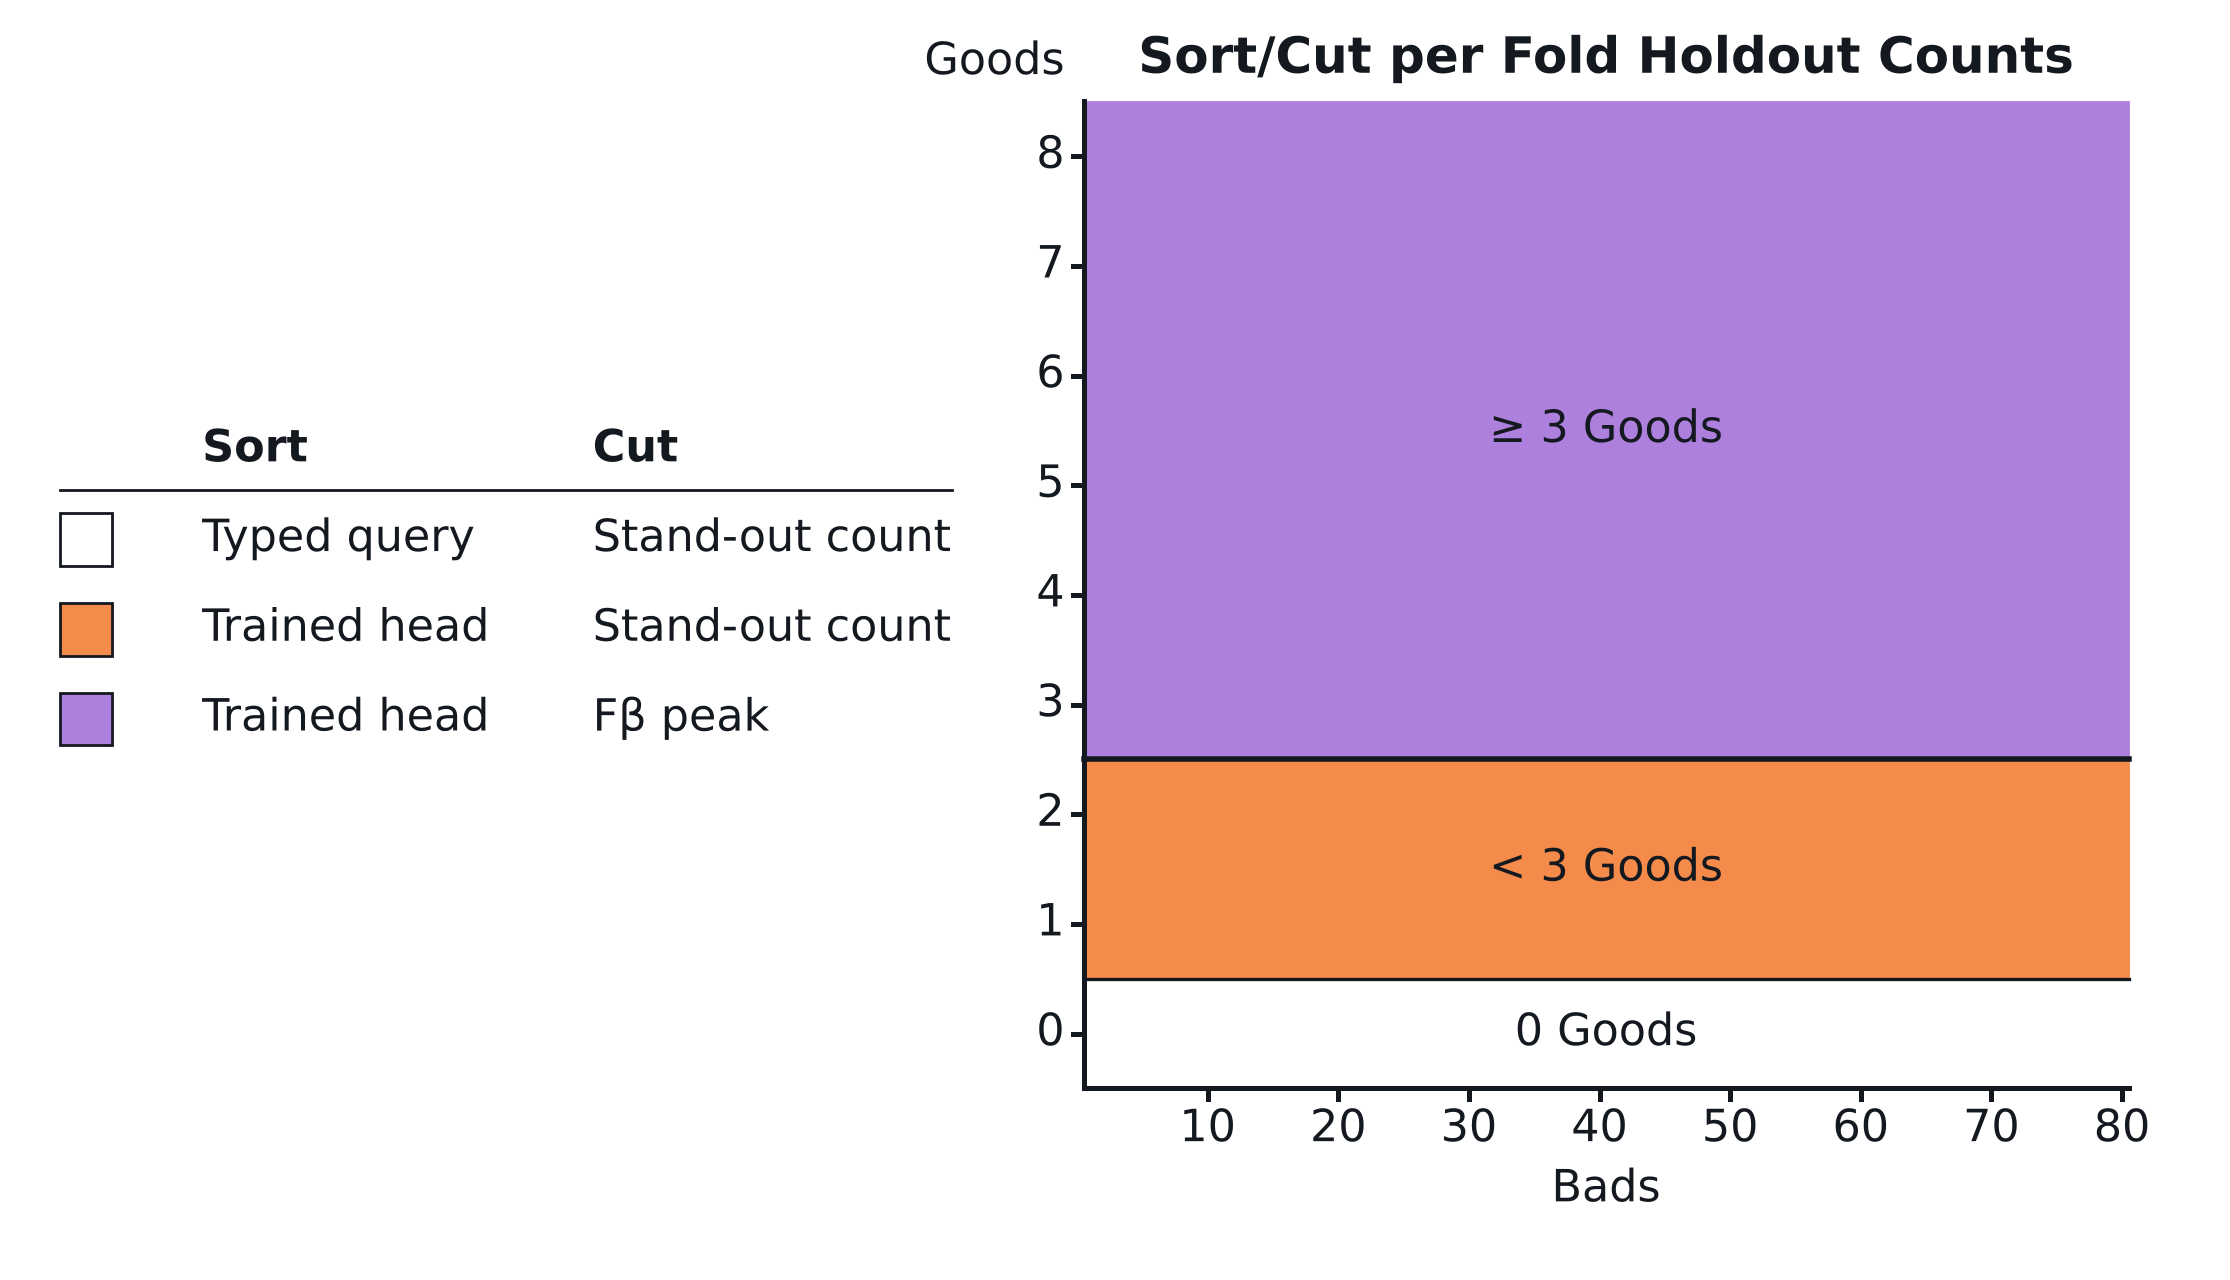
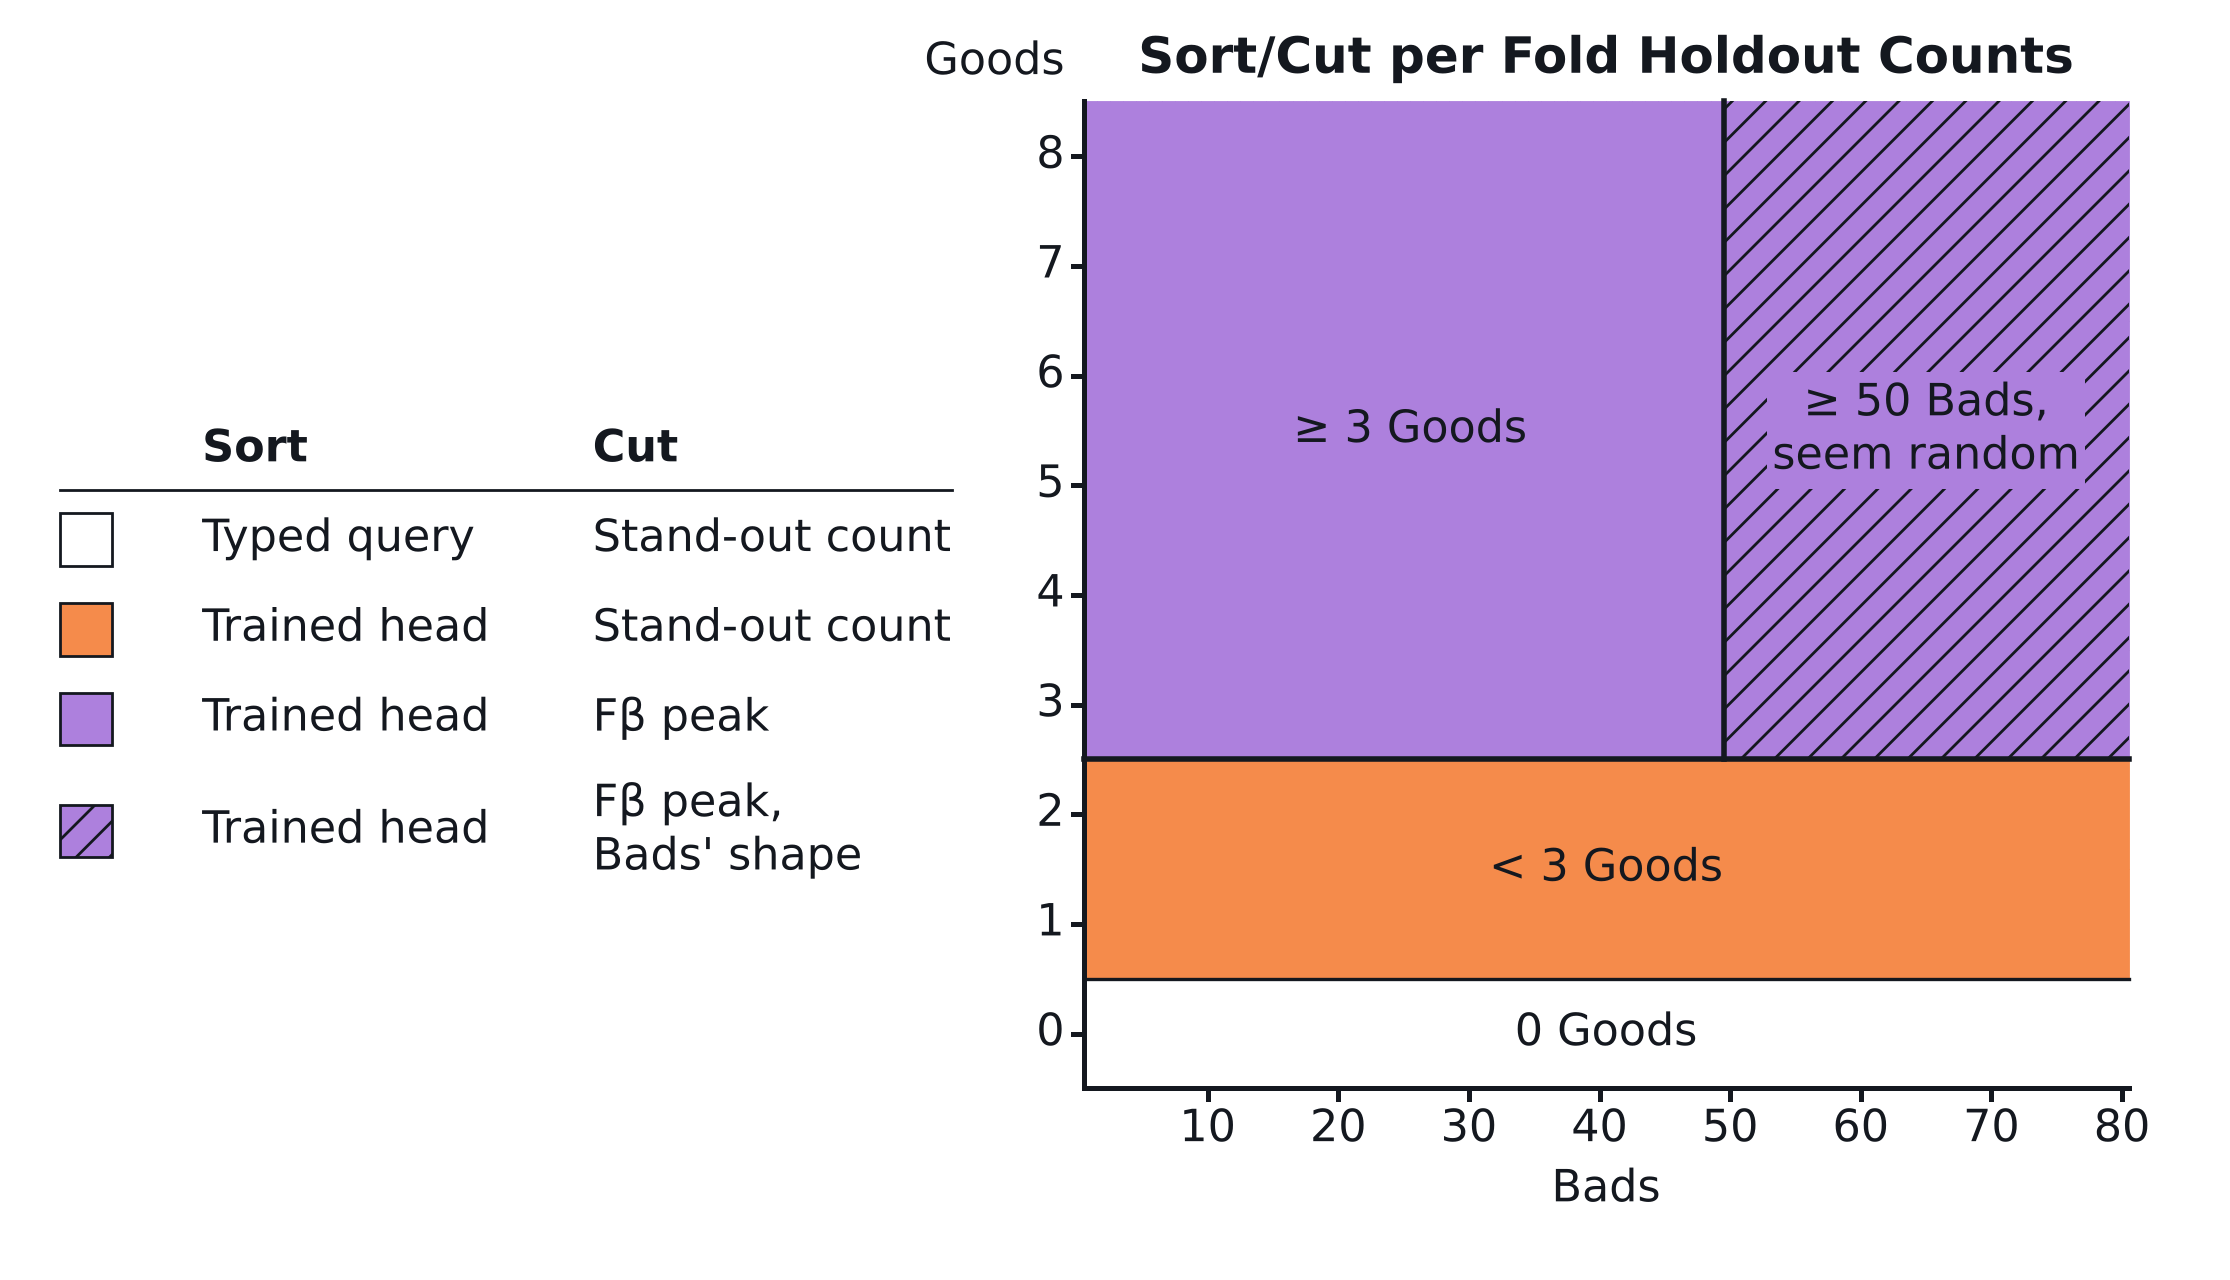
Slides: Inside Job's page c hatches the cut on the Bads' own shape
Fifty Bads per fold (RANDOM_BADS_MIN between the two) that seem a random
sample of the corpus get the Fbeta peak with the non-matches shaped by
the Bads' own scores (#4490): a return of its own, so it is a row of the
key (Trained head / Fbeta peak, Bads' shape, hatched purple), and its
region is named for both its count and its test, '>= 50 Bads, seem
random', as Lay of the Land's hatch names 'with a query'. Note c says a
session never gets there and an imported, fully labelled set can, at
some 160-170 Bads in hand, past Lay of the Land's edge.

'>= 3 Goods' now stands left of the hatch on every page, so it need not
move when page c arrives.

Claude-Session: https://claude.ai/code/session_015JYDYJSoKrimV2DtawW9RR

diff --git a/slides/figs/src/make-calib-figs.py b/slides/figs/src/make-calib-figs.py
@@ -6472,7 +6472,10 @@ IN_TABLE = (
     (1, "none", "Typed query", "Stand-out count"),
     (1, "count", "Trained head", "Stand-out count"),
     (2, "labels", "Trained head", "Fβ peak"),
+    (3, "bads", "Trained head", "Fβ peak,\nBads' shape"),
 )
+#: Table keys whose swatch is another key's fill, hatched.
+MAP_HATCHED_KEYS = {"bads": "labels"}
 
 
 def _map_table(ax: plt.Axes, rows: tuple, stage: int, hatched: tuple[str, int] | None = None) -> None:
@@ -6481,7 +6484,8 @@ def _map_table(ax: plt.Axes, rows: tuple, stage: int, hatched: tuple[str, int] |
     *hatched* is ``(fill key, stage)``: from that stage a hatched swatch joins
     that row's, for a hatch on the map that shares the row's sort and cut.
     White swatches are outlined so they show; the ``"split"`` row's swatch is
-    Lay of the Land's band, orange to purple. A two-line row takes half a
+    Lay of the Land's band, orange to purple; a `MAP_HATCHED_KEYS` row's is
+    another row's fill, hatched, for a hatch on the map with a return of its own. A two-line row takes half a
     row more, and every row keeps its place on every page.
     """
     xs = MAP_TABLE_X
@@ -6499,9 +6503,10 @@ def _map_table(ax: plt.Axes, rows: tuple, stage: int, hatched: tuple[str, int] |
             for i, x in enumerate(np.linspace(0.0, MAP_TABLE_SWATCH, 25)[:-1]):
                 ax.add_patch(Rectangle((xs["swatch"] + x, y - half), MAP_TABLE_SWATCH / 24, MAP_TABLE_SWATCH,
                                        facecolor=_land_mix(i / 23), edgecolor="none", zorder=3))  # fmt: skip
-        ax.add_patch(Rectangle((xs["swatch"], y - half), MAP_TABLE_SWATCH, MAP_TABLE_SWATCH,
-                               facecolor="none" if key == "split" else LAND_FILL[key], edgecolor=INK,
-                               linewidth=1.0, zorder=3))  # fmt: skip
+        fill = "none" if key == "split" else LAND_FILL[MAP_HATCHED_KEYS.get(key, key)]
+        ax.add_patch(Rectangle((xs["swatch"], y - half), MAP_TABLE_SWATCH, MAP_TABLE_SWATCH, facecolor=fill,
+                               edgecolor=INK, hatch="//" if key in MAP_HATCHED_KEYS else None, linewidth=1.0,
+                               zorder=3))  # fmt: skip
         if hatched is not None and hatched[0] == key and stage >= hatched[1]:
             ax.add_patch(Rectangle((xs["swatch2"], y - half), MAP_TABLE_SWATCH, MAP_TABLE_SWATCH,
                                    facecolor=LAND_FILL[key], edgecolor=INK, hatch="//", linewidth=1.0,
@@ -6605,11 +6610,12 @@ def _land_query(ax: plt.Axes) -> None:
 # ── Inside Job: the trained head's line, read off what a fold holds out ─────
 
 #: How many build stages the inside view reveals in: a thin class model,
-#: counting what stands out; the labels line, from three Goods per fold.
-#: #4490's random-sample Bads are not drawn: whether a labelset's Bads pass
-#: that test is read off their scores, not their count, so it is no edge on a
-#: map of counts, and a session's Bads never pass it.
-IN_STAGES = 2
+#: counting what stands out; the labels line, from three Goods per fold; its
+#: cut on the Bads' own shape, from fifty Bads per fold that seem random
+#: (#4490). That last test reads the Bads' scores, not their count, so its
+#: region is named for both, as Lay of the Land's hatch is "with a query"; a
+#: session's Bads never pass it (owner, 2026-10-13: a return of its own).
+IN_STAGES = 3
 #: What one fold holds out, the map's two axes: Bads 1..IN_B, Goods 0..IN_G.
 #: A fold always holds out at least one of each (`_grouped_folds` trains on at
 #: most all but one of a class), so the Bads start at 1; the Goods row at 0 is
@@ -6624,7 +6630,9 @@ def _in_grid() -> np.ndarray:
     For each count a fold holds out, every fold holding out the same, as
     `_grouped_folds` makes them: build the folds' held-out scores (Goods high,
     Bads low, spread), fit `class_score_model` to them, and ask
-    `head_count_serves`. The scores only have to separate; the counts decide.
+    `head_count_serves` and whether the model kept the Bads' scores
+    (`RANDOM_BADS_MIN`), which the cut reads only if they seem random. The
+    scores only have to separate; the counts decide.
     """
     from vtscore.config.runtime import DEFAULT_CALIBRATE_COUNT  # noqa: PLC0415
     from vtscore.training.thresholds.labels_line import class_score_model, head_count_serves  # noqa: PLC0415
@@ -6638,7 +6646,10 @@ def _in_grid() -> np.ndarray:
             fold = (list(goods) + list(bads), [1.0] * g + [0.0] * b)
             model = class_score_model([fold] * DEFAULT_CALIBRATE_COUNT)
             assert model is not None
-            kind[g, b] = "count" if head_count_serves(model) else "labels"
+            if head_count_serves(model):
+                kind[g, b] = "count"
+            else:
+                kind[g, b] = "bads" if model.neg_logits is not None else "labels"
     return kind
 
 
@@ -6650,7 +6661,9 @@ def inside_job_fig() -> None:
     line is a decision tree on two counts, with nothing left to chance. It
     comes before Lay of the Land, which is the band this rule makes once the
     rounding is unknown. One or two Goods per fold, the head counts what stands out; three
-    (six between the two folds, `HEAD_COUNT_GOODS`), the labels line.
+    (six between the two folds, `HEAD_COUNT_GOODS`), the labels line; fifty
+    Bads per fold (`RANDOM_BADS_MIN` between them) that seem a random sample
+    of the corpus, the labels line's cut on the Bads' own shape.
     """
     final = _in_stage(IN_STAGES)
     box = tight_box(final)
@@ -6666,12 +6679,12 @@ def _in_cell(b: float, g: float) -> tuple[float, float, float, float]:
     return x0 + (b - 1) * w, y0 + g * h, w, h
 
 
-def _in_edge() -> int:
-    """The Goods a fold must hold out for the labels line: `HEAD_COUNT_GOODS` between the folds."""
+def _in_edges() -> tuple[int, int]:
+    """``(Goods, Bads)`` a fold must hold out for the labels line, and for its cut on the Bads' own shape."""
     from vtscore.config.runtime import DEFAULT_CALIBRATE_COUNT  # noqa: PLC0415
-    from vtscore.training.thresholds.labels_line import HEAD_COUNT_GOODS  # noqa: PLC0415
+    from vtscore.training.thresholds.labels_line import HEAD_COUNT_GOODS, RANDOM_BADS_MIN  # noqa: PLC0415
 
-    return HEAD_COUNT_GOODS // DEFAULT_CALIBRATE_COUNT
+    return HEAD_COUNT_GOODS // DEFAULT_CALIBRATE_COUNT, RANDOM_BADS_MIN // DEFAULT_CALIBRATE_COUNT
 
 
 def _in_stage(stage: int) -> plt.Figure:
@@ -6681,9 +6694,9 @@ def _in_stage(stage: int) -> plt.Figure:
     ax.set_xlim(0, LL_CANVAS[0])
     ax.set_ylim(0, LL_CANVAS[1])
     ax.set_axis_off()
-    x0, y0, x1, _ = LAND_BOX
+    x0, y0, x1, y1 = LAND_BOX
     _, _, cw, ch = _in_cell(1, 0)
-    edge = _in_edge()
+    edge, bad_edge = _in_edges()
     _in_cells(ax, stage)
     _map_table(ax, IN_TABLE, stage)
     _in_axes(ax)
@@ -6697,26 +6710,36 @@ def _in_stage(stage: int) -> plt.Figure:
     # title says so, and the deck doubles it where it must.
     name(IN_B / 2, 0.5, "0 Goods")
     name(IN_B / 2, 2.0, f"< {edge} Goods")
+    edge_y = _in_cell(1, edge)[1]
     if stage >= 2:
-        edge_y = _in_cell(1, edge)[1]
         ax.plot([x0, x1], [edge_y, edge_y], color=INK, linewidth=2.0, zorder=4)
-        name(IN_B / 2, (edge + IN_G + 1) / 2, f"≥ {edge} Goods")
+        # Left of where page 3's hatch starts, so it need not move.
+        name(bad_edge / 2, (edge + IN_G + 1) / 2, f"≥ {edge} Goods")
+    if stage >= 3:
+        edge_x = _in_cell(bad_edge, 1)[0]
+        ax.plot([edge_x, edge_x], [edge_y, y1], color=INK, linewidth=2.0, zorder=7)
+        ax.text((edge_x + x1) / 2, y0 + (edge + IN_G + 1) / 2 * ch, f"≥ {bad_edge} Bads,\nseem random",
+                ha="center", va="center", fontsize=16, color=INK, zorder=6,
+                bbox={"facecolor": LAND_FILL["labels"], "edgecolor": "none", "pad": 2})  # fmt: skip
     return fig
 
 
 def _in_cells(ax: plt.Axes, stage: int) -> None:
-    """The cells, filled by the line they get: the thin model's first, the labels line's from page 2."""
+    """The cells, filled by the line they get: the thin model's first, the labels line's from page 2, hatched from 3."""
     kind = _in_grid()
     for g in range(IN_G + 1):
         for b in range(1, IN_B + 1):
             k = kind[g, b]
-            if k == "labels" and stage < 2:
+            if k in ("labels", "bads") and stage < 2:
                 continue
-            fill = LAND_FILL[k]
+            fill = LAND_FILL[MAP_HATCHED_KEYS.get(k, k)]
             # Edgeless, each cell edged in its own fill so no seam shows: only
             # the black edges between decisions are drawn.
             ax.add_patch(Rectangle(_in_cell(b, g)[:2], *_in_cell(b, g)[2:], facecolor=fill, edgecolor=fill,
                                    linewidth=0.3, zorder=1))  # fmt: skip
+            if k == "bads" and stage >= 3:
+                ax.add_patch(Rectangle(_in_cell(b, g)[:2], *_in_cell(b, g)[2:], facecolor="none", edgecolor=INK,
+                                       hatch="//", linewidth=0, zorder=2))  # fmt: skip
 
 
 def _in_axes(ax: plt.Axes) -> None:

diff --git a/slides/fragments/inside-job.md b/slides/fragments/inside-job.md
@@ -6,6 +6,8 @@
 
 <!-- build: figs/calib-inside-job.build1.png -->
 
+<!-- build: figs/calib-inside-job.build2.png -->
+
 <!-- The rule first. The class model reads only the votes the two folds
      hold out, so the trained head's line is a decision tree on two counts:
      what each fold holds out. Nothing in it is left to chance. The table is
@@ -20,7 +22,13 @@
 <!-- **b** — Three Goods per fold, six between the two (#4798), in purple: the
      same ranking, cut at What to Expect's Fβ peak. One flat edge, with no
      Bads in it. Which side of it a user's labels land on is the next
-     slide. (The one thing the counts do not settle: with a hundred Bads held
-     out that look like a random sample of the corpus, the peak models the
-     negatives by their scores, #4490. An imported, fully labelled set can;
-     a session's Bads, picked from the top, never do.) -->
+     slide. -->
+
+<!-- **c** — One branch reads more than the counts. Fifty Bads per fold, a
+     hundred between them, that seem a random sample of the corpus, no more
+     than twice their share in its top twentieth (#4490): then the Fβ peak
+     takes the non-matches' shape from the Bads' own scores, heavy upper tail
+     and all, not from one normal fitted to the corpus, which read that tail
+     as matches and cut deep. A session never gets here, because Autopilot
+     asks about the top. An imported, fully labelled set can, at some 160 to
+     170 Bads in hand: past the next slide's edge. -->
